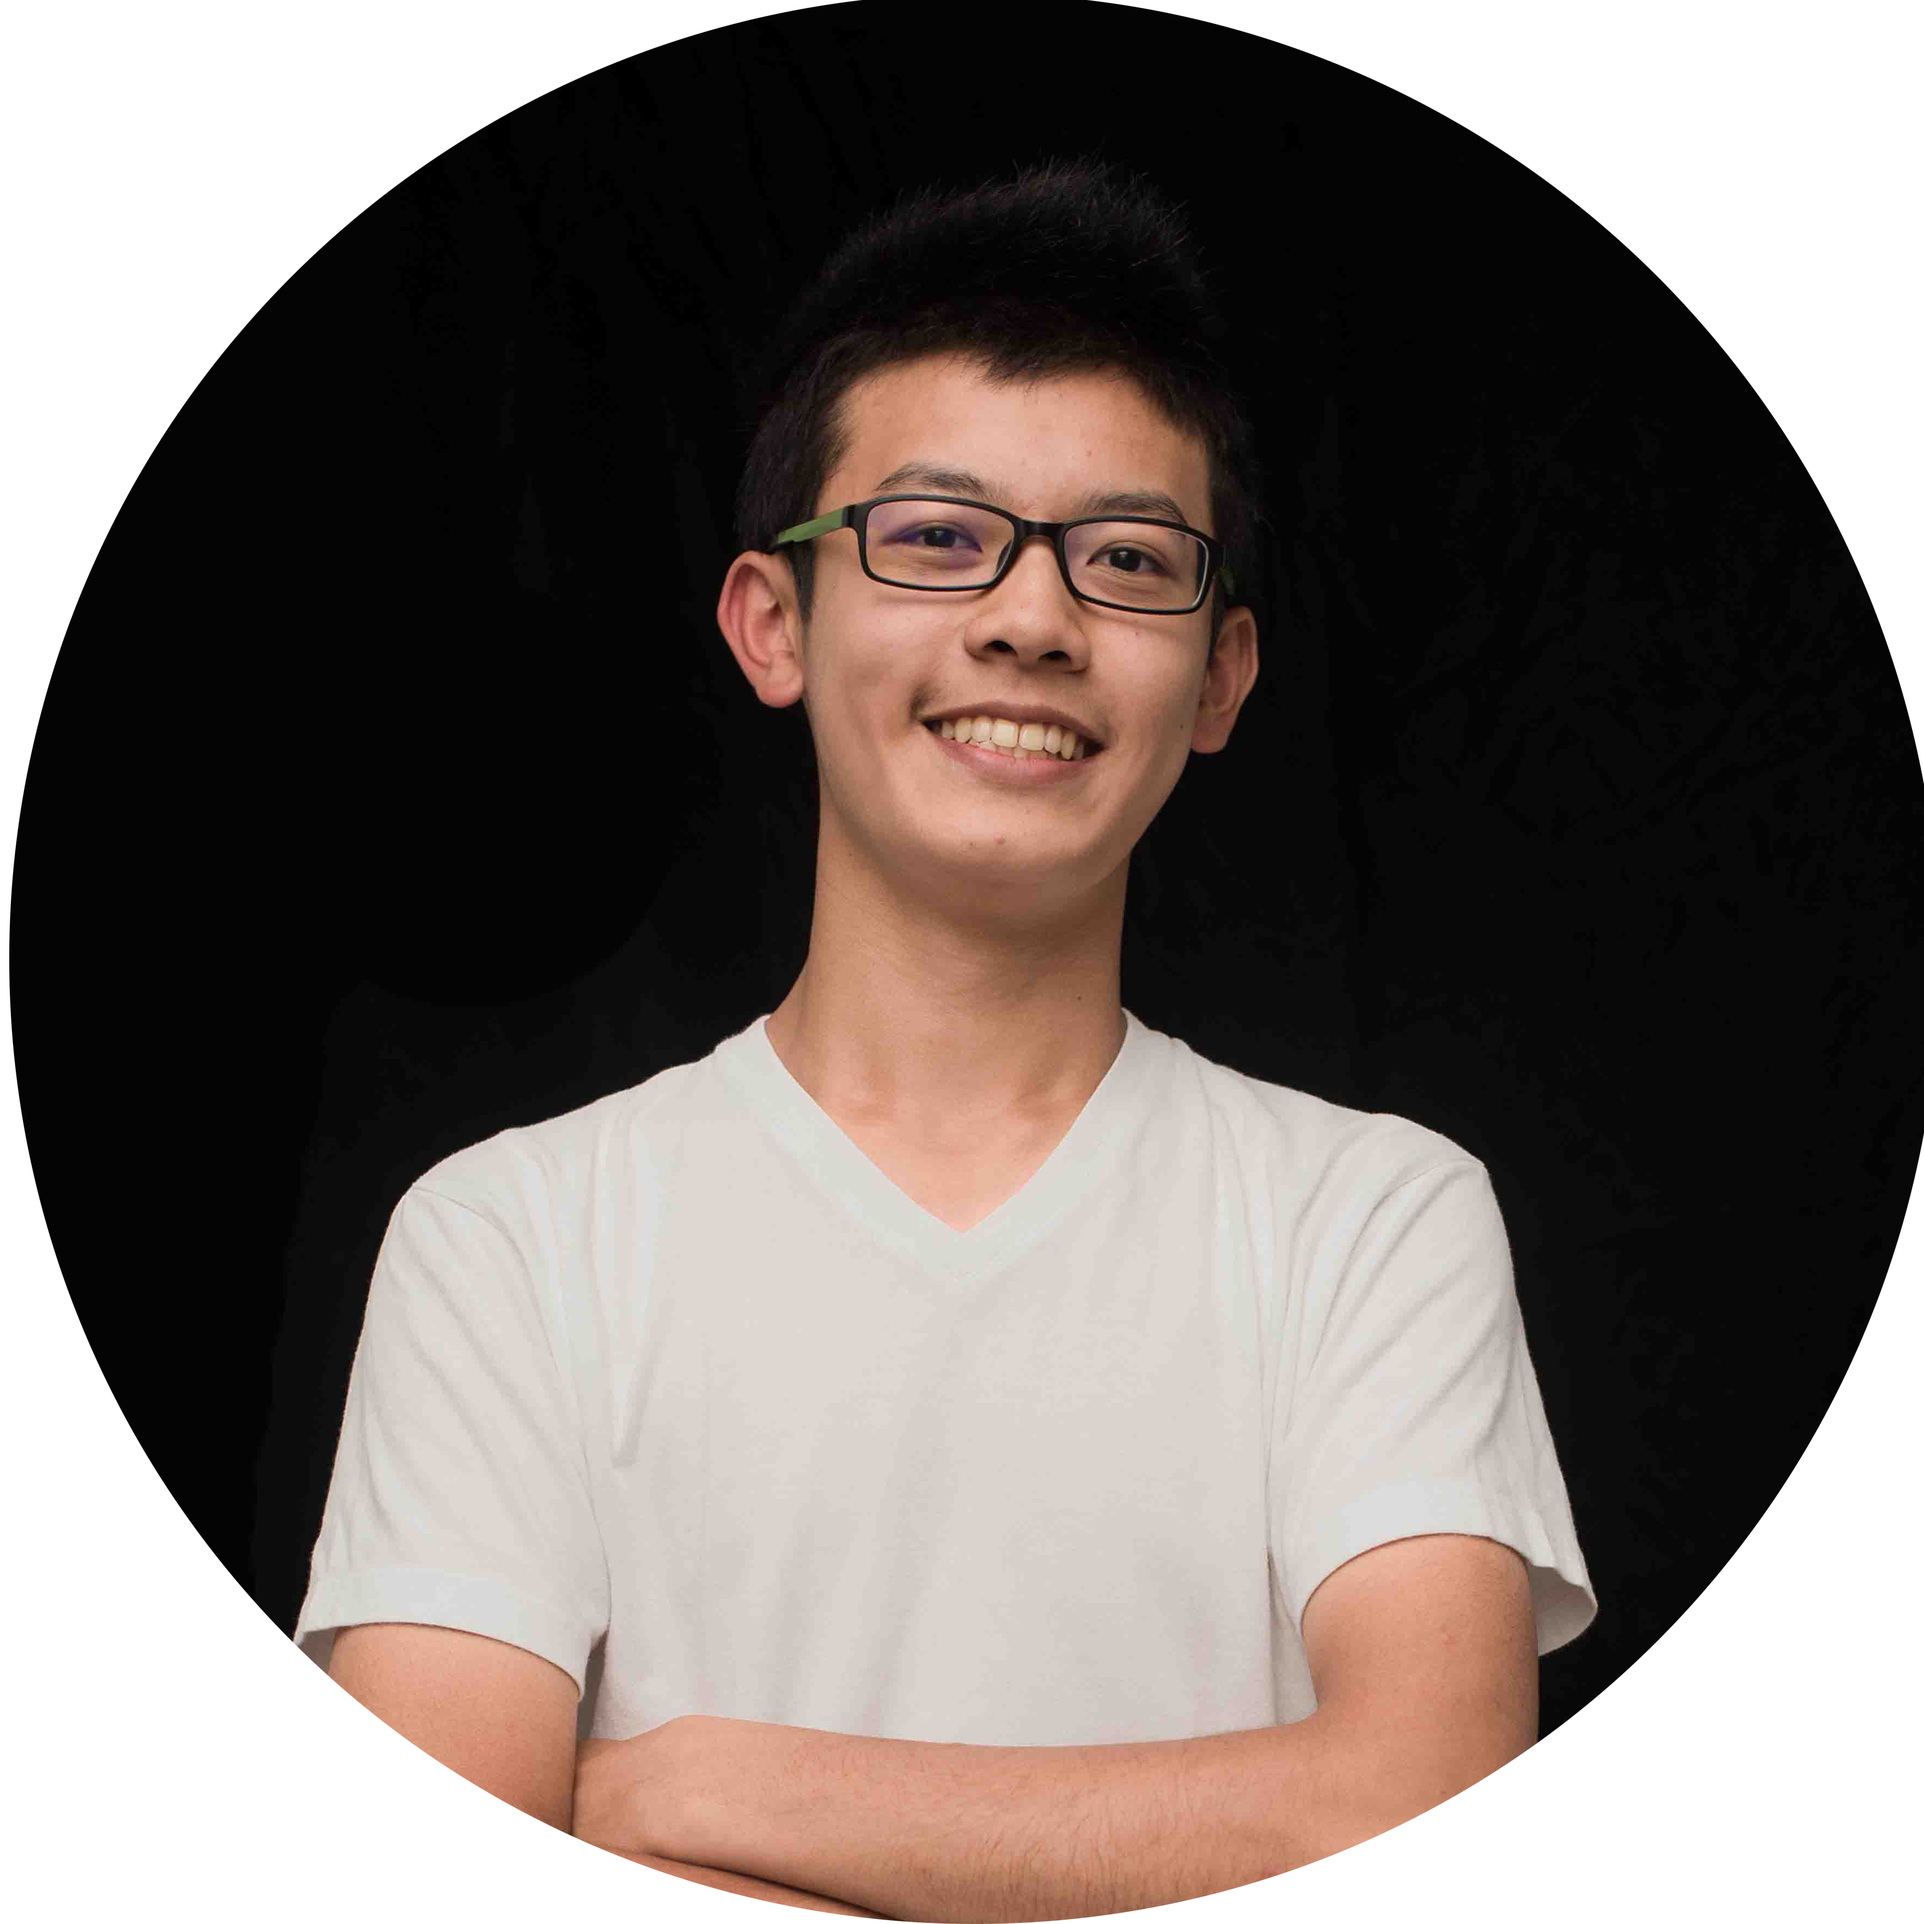
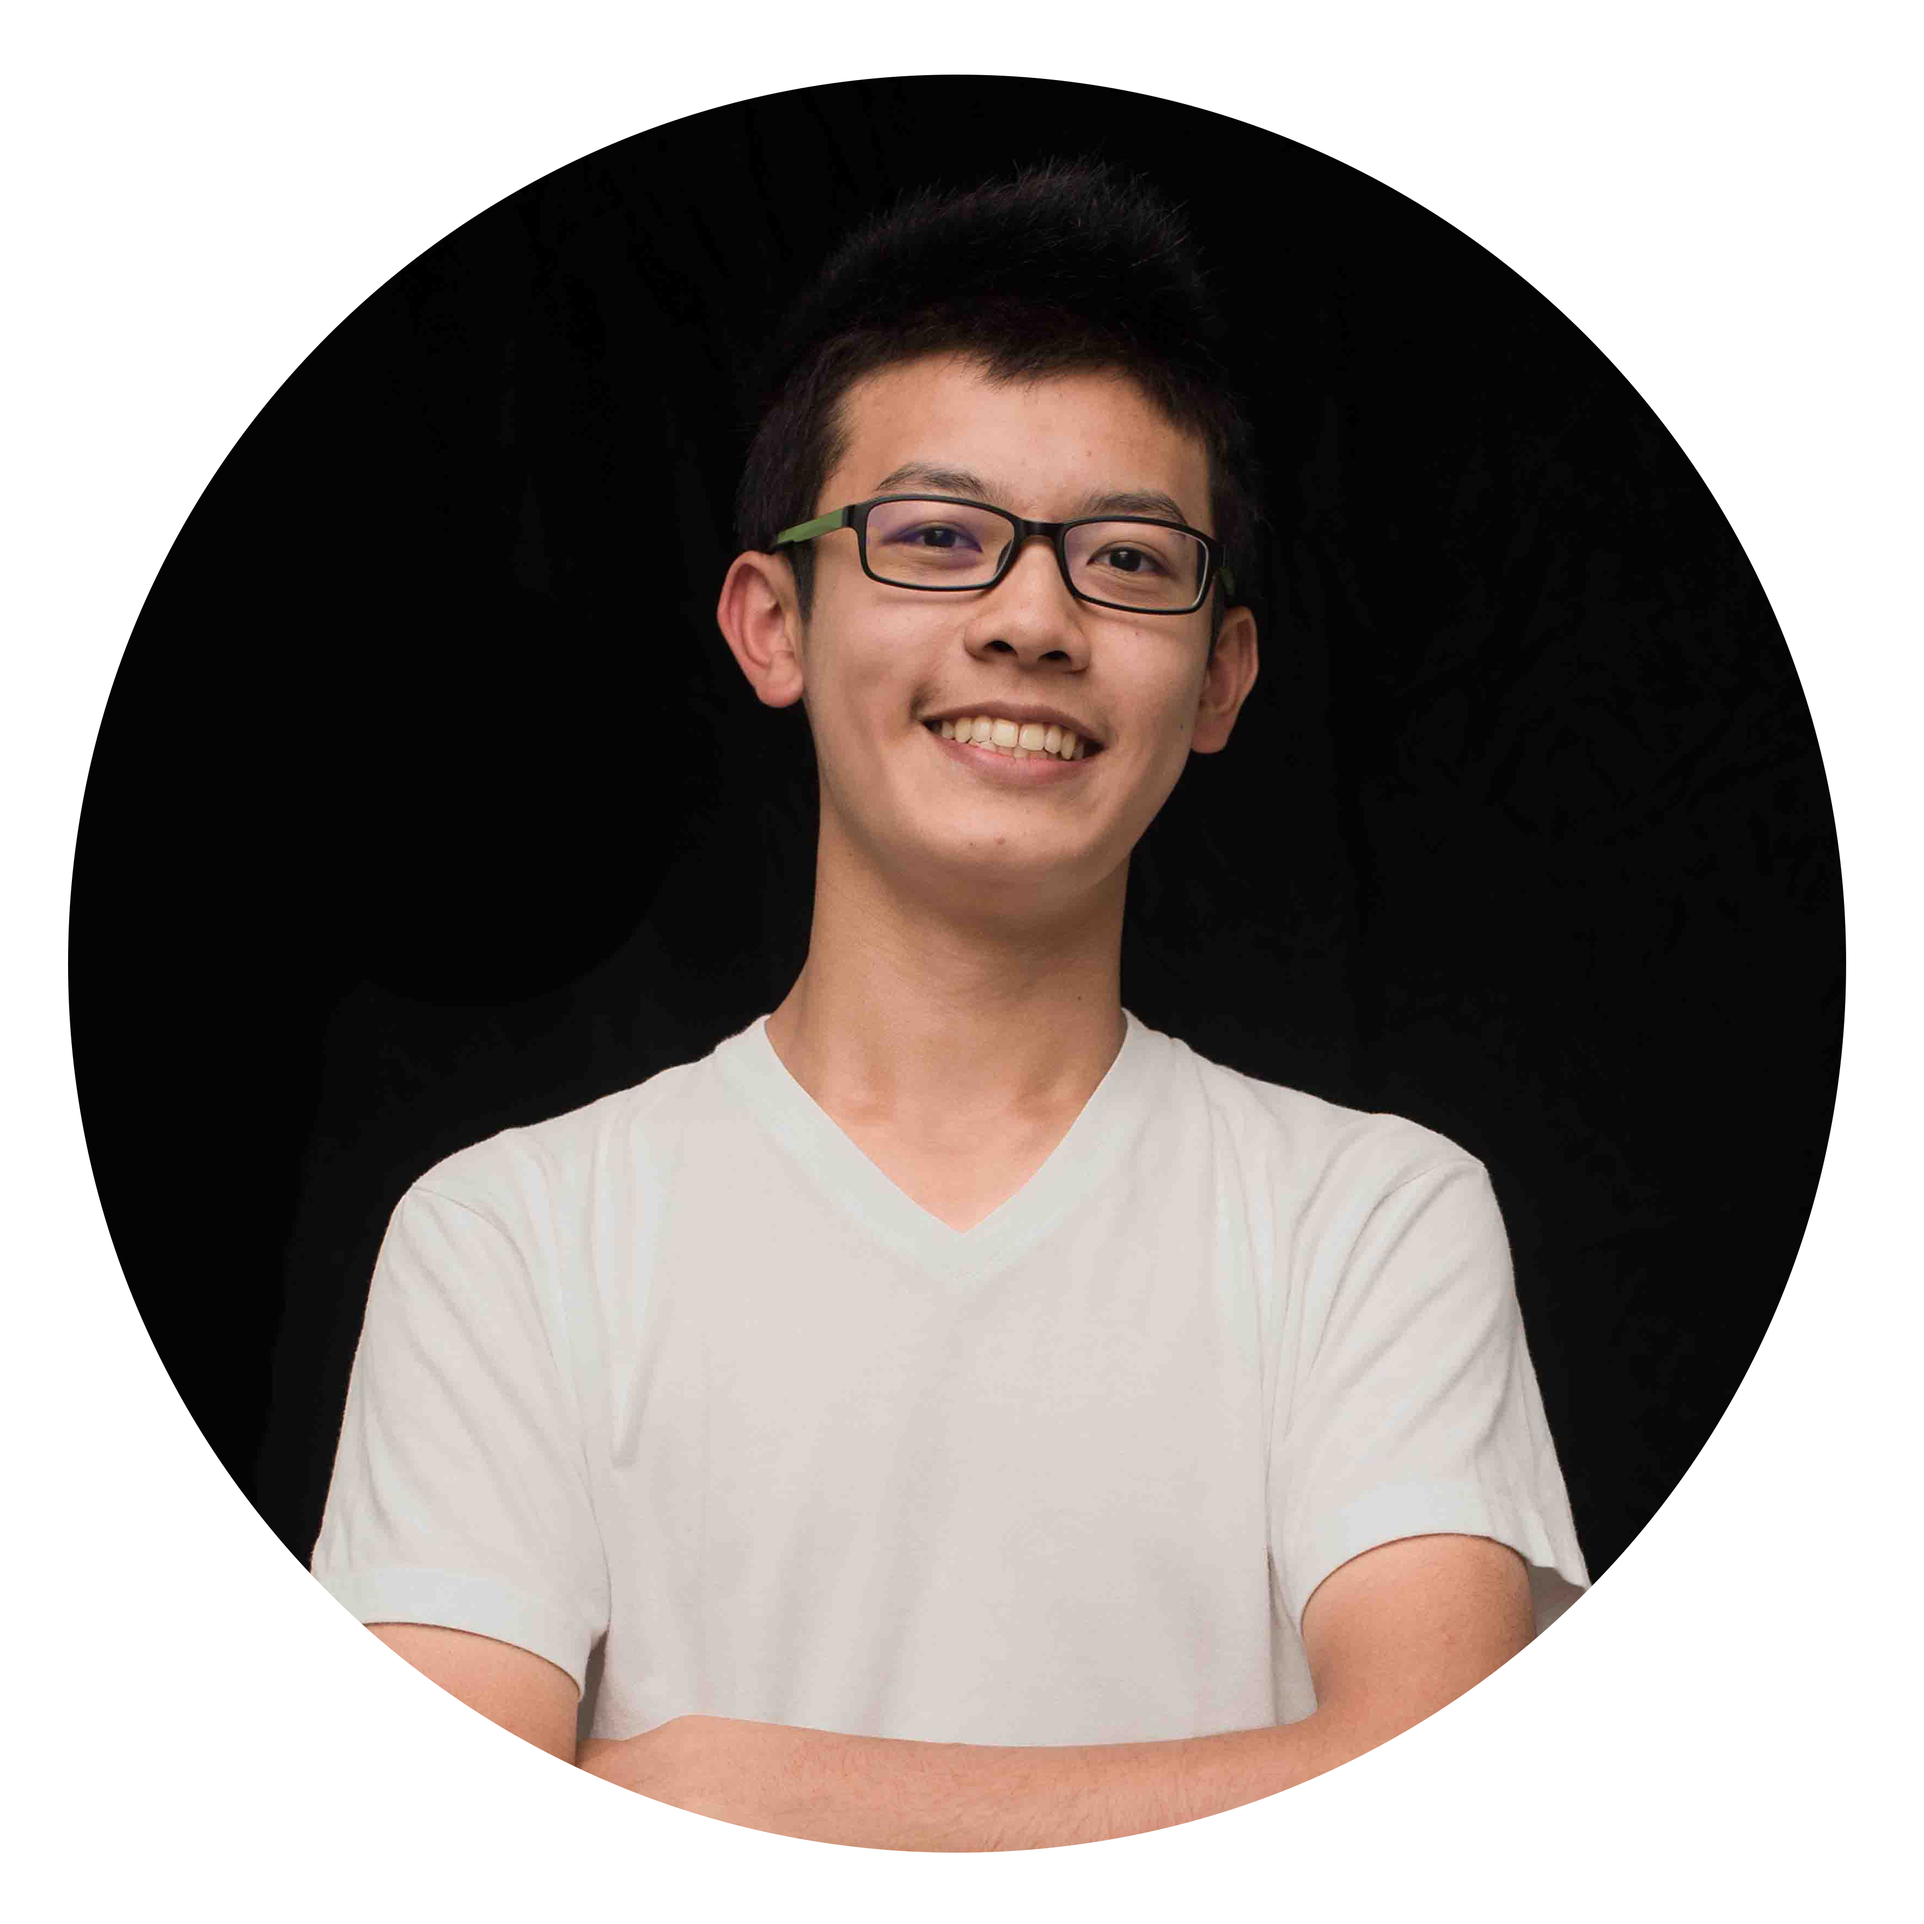
Updated Projects

Changed region(s): [[0.0, 0.0, 1.0, 1.0]]

diff --git a/index.html b/index.html
@@ -40,11 +40,11 @@
           <a class="nav-link" href="#contact">Contact</a>
         </li>
         <li class="nav-item">
-          <a class="nav-link iconB"><i class= "iconC fa fa-book-open fa-fw"></i></a>
+          <a class="nav-link iconB"><i class="iconC fa fa-book-open fa-fw"></i></a>
         </li>
         <li class="nav-item dropdown">
           <a class="nav-link dropdown-toggle" href="#" id="navbarDropdownMenuLink" data-toggle="dropdown" aria-haspopup="true" aria-expanded="false">
-            <i class= "newIcon fa fa-book fa-fw"></i>
+            <i class="newIcon fa fa-book fa-fw"></i>
           </a>
           <div class="dropdown-menu" aria-labelledby="navbarDropdownMenuLink">
             <a class="dropdown-item" href="#">Home</a>
@@ -71,7 +71,7 @@
   <div class="boxy">
     <div class="aboutMe">
       <div class='animatedDivs'></div>
-      <img src="assets/images/alvin.jpg" style="width: 15%" id="myPhoto">
+      <img src="assets/images/alvin.png" style="width: 15%" id="myPhoto">
       <p class="writing">Welcome to my personal website!</p>
     </div>
 
@@ -92,29 +92,29 @@
                   <i class="fa fa-pencil-ruler fa-5x"></i>
                 </div>
                 <div class="col-9">
-                  I am a first-year engineering student at the University of Waterloo.
+                  First-year engineering student at the University of Waterloo.
                 </div>
               </div>
             </div>
-            <div class="col-md-6 col-sm-12">
-              <div class="row">
-                <div class="col-3">
-                  <i class="fa fa-flask fa-5x"></i>
-                </div>
-                <div class="col-9">
-                  My interests are in the fields of biomedical science and software development
-                </div>
-              </div>
-            </div>
-          </div>
-          <div class="row">
             <div class="col-md-6 col-sm-12">
               <div class="row">
                 <div class="col-3">
                   <i class="fa fa-id-badge fa-5x"></i>
                 </div>
                 <div class="col-9">
-                  I am a first-year engineering student at the University of Geese.
+                  Proactive leader committed to helping others in the community
+                </div>
+              </div>
+            </div>
+          </div>
+          <div class="row" id="thirdRow">
+            <div class="col-md-6 col-sm-12">
+              <div class="row">
+                <div class="col-3">
+                  <i class="fa fa-flask fa-5x"></i>
+                </div>
+                <div class="col-9">
+                  Looking for opportunities in the fields of biomedical science and software development
                 </div>
               </div>
             </div>
@@ -124,7 +124,7 @@
                   <i class="fa fa-comments fa-5x"></i>
                 </div>
                 <div class="col-9">
-                  I am a first-year engineering student at the University of Geese.
+                  Download a copy of Alvin's resume <a href="#">here</a>
                 </div>
               </div>
             </div>
@@ -134,6 +134,7 @@
 
     </div>
   </div>
+
 
 
   <div class="containerGallery">
@@ -227,52 +228,114 @@
       </div>
     </div>
   </div>
+  <div class="">
 
-  <div class="projectBLOCK" id="experience">
-    <h1>EXPERIENCE</h1>
-    <div class="timeline">
-      <div class="container1 left">
-        <div class="content">
-          <h2>2019</h2>
-          <ul>
-            <li>VP Externals @ Project 5K</li>
-            <li>Research Student @ SickKids Research Institute</li>
-            <li>Pharmacy Assistant @ IDA Pharmacy</li>
-          </ul>
-        </div>
-        <div class="content-expand">
-          <p>Lorem ipsum dolor sit amet, consectetur adipisicing elit. Veritatis dolores vel ullam deleniti rem perferendis sit necessitatibus sed rerum libero earum laboriosam quo itaque fuga voluptatem provident vero, quis minus.</p>
+  </div>
+  <div class="row">
+    <div class="col-md-5 offset-md-1">
+      <div id="projects">
+        <h1>PROJECTS</h1>
+        <div class="row">
+          <div class="flip-card">
+            <div class="flip-card-inner">
+              <div class="flip-card-front">
+                <img src="assets/images/arm.jpg" alt="ARM" style="width:100%;height:100%;  ">
+              </div>
+              <div class="flip-card-back">
+                <h2>The ARM</h2>
+                <p>First-year project created using Solidworks, kiCAD, Arduino</p>
+              </div>
+            </div>
+          </div>
+
+          <div class="flip-card">
+            <div class="flip-card-inner">
+              <div class="flip-card-front">
+                <img src="assets/images/gesture.png" alt="Gesture" style="width:100%;height:100%;  ">
+              </div>
+              <div class="flip-card-back">
+                <h2>Gesture Control</h2>
+                <p>Recognize hand gestures using Arduino and Python</p>
+              </div>
+            </div>
+          </div>
+
+          <div class="flip-card">
+            <div class="flip-card-inner">
+              <div class="flip-card-front">
+                <img src="assets/images/emotion.png" alt="Emotion" style="width:100%;height:100%;  ">
+              </div>
+              <div class="flip-card-back">
+                <h2>Analyzing FB Messages using AI</h2>
+                <p>Differentiate between positive and negative emotions in messages, generate sentences using LSTM</p>
+              </div>
+            </div>
+          </div>
+
+        <div class="flip-card">
+          <div class="flip-card-inner">
+            <div class="flip-card-front">
+              <img src="assets/images/swag.png" alt="Emotion" style="width:100%;height:100%;  ">
+            </div>
+            <div class="flip-card-back">
+              <h2>Designing Class Apparel</h2>
+              <p>Designed class sweaters, hats, patches; Handled over $3000</p>
+            </div>
+          </div>
         </div>
       </div>
-      <div class="container1 right">
-        <div class="content">
-          <h2>2018</h2>
-          <ul>
-            <li>Endoscopy Unit Assistant @ Scarborough Health Network</li>
-            <li>Co-Chair @ Students Towards Realizing a United Tomorrow</li>
-            <li>VP Volunteers @ We Can Change the World Day</li>
-          </ul>
-        </div>
-        <div class="content-expand">
-          <p>Lorem ipsum dolor sit amet, consectetur adipisicing elit. Veritatis dolores vel ullam deleniti rem perferendis sit necessitatibus sed rerum libero earum laboriosam quo itaque fuga voluptatem provident vero, quis minus.</p>
-        </div>
+
       </div>
-      <div class="container1 left">
-        <div class="content">
-          <h2>2017</h2>
-          <ul>
-            <li>Co-Founder @ Project Backpacks for Kids</li>
-            <li>Project Coordinator @ SJMF Youth</li>
-          </ul>
-        </div>
-        <div class="content-expand">
-          <p>Lorem ipsum dolor sit amet, consectetur adipisicing elit. Veritatis dolores vel ullam deleniti rem perferendis sit necessitatibus sed rerum libero earum laboriosam quo itaque fuga voluptatem provident vero, quis minus.</p>
+    </div>
+
+    <div class="col-md-5">
+      <div class="projectBLOCK" id="experience">
+        <h1>EXPERIENCE</h1>
+        <div class="timeline">
+          <div class="container1 right">
+            <div class="content">
+              <h2>Present</h2>
+              <ul>
+                <li>Haptics Team Member @ Biomechatronics</li>
+                <li>Linear Induction Motor Team Member @ Waterloop</li>
+              </ul>
+            </div>
+          </div>
+          <div class="container1 right">
+            <div class="content">
+              <h2>2019</h2>
+              <ul>
+                <li>VP Externals @ Project 5K</li>
+                <li>Research Student @ SickKids Research Institute</li>
+              </ul>
+            </div>
+          </div>
+          <div class="container1 right">
+            <div class="content">
+              <h2>2018</h2>
+              <ul>
+                <li>Endoscopy Unit Assistant @ Scarborough Health Network</li>
+                <li>Co-Chair @ Students Towards Realizing a United Tomorrow</li>
+              </ul>
+            </div>
+          </div>
+          <div class="container1 right">
+            <div class="content">
+              <h2>2017</h2>
+              <ul>
+                <li>Co-Founder @ Project Backpacks for Kids</li>
+                <li>Project Coordinator @ SJMF Youth</li>
+              </ul>
+            </div>
+          </div>
         </div>
       </div>
     </div>
+    <div class="col-1">
+
+    </div>
+
   </div>
-
-
 
   <div class="contactBLOCK" id="contact">
     <h1>CONTACT</h1>

diff --git a/assets/css/styleAA.css b/assets/css/styleAA.css
@@ -1,3 +1,53 @@
+#project{
+
+}
+
+.flip-card {
+  background-color: transparent;
+  width: 220px;
+  height: 220px;
+  perspective: 1000px;
+  margin:auto;
+}
+
+.flip-card-inner {
+  position: relative;
+  width: 100%;
+  height: 100%;
+  text-align: center;
+  transition: transform 0.6s;
+  transform-style: preserve-3d;
+  box-shadow: 0 4px 8px 0 rgba(0,0,0,0.2);
+}
+
+.flip-card:hover .flip-card-inner {
+  transform: rotateY(180deg);
+}
+
+.flip-card-front, .flip-card-back {
+  position: absolute;
+  width: 100%;
+  height: 100%;
+  backface-visibility: hidden;
+}
+
+.flip-card-front {
+  background-color: #bbb;
+  color: black;
+}
+
+.flip-card-back {
+  background-color: #2980b9;
+  color: white;
+  transform: rotateY(180deg);
+  padding:10%;
+}
+
+.flip-card-back p{
+  font-size:12px;
+}
+
+
 html, body {
   max-width: 100%;
   overflow-x: hidden;
@@ -156,7 +206,7 @@ a:not([href]):not([tabindex]) {
   background-color: #003b6f;
   top: 0;
   bottom: 0;
-  left: 50%;
+  left: 20%;
   margin-left: -3px;
 }
 
@@ -166,7 +216,7 @@ a:not([href]):not([tabindex]) {
   padding: 10px 40px;
   position: relative;
   background-color: inherit;
-  width: 50%;
+  width: 80%;
   cursor: pointer;
 }
 
@@ -194,7 +244,7 @@ a:not([href]):not([tabindex]) {
 /* Place the container to the right */
 
 .right {
-  left: 50%;
+  left: 20%;
 }
 
 /* Add arrows to the left container (pointing right) */
@@ -339,6 +389,11 @@ a:not([href]):not([tabindex]) {
 h1 {
   text-align: center;
   padding: 30px;
+  font-size:30px;
+}
+
+h2{
+  font-size:20px;
 }
 
 body {
